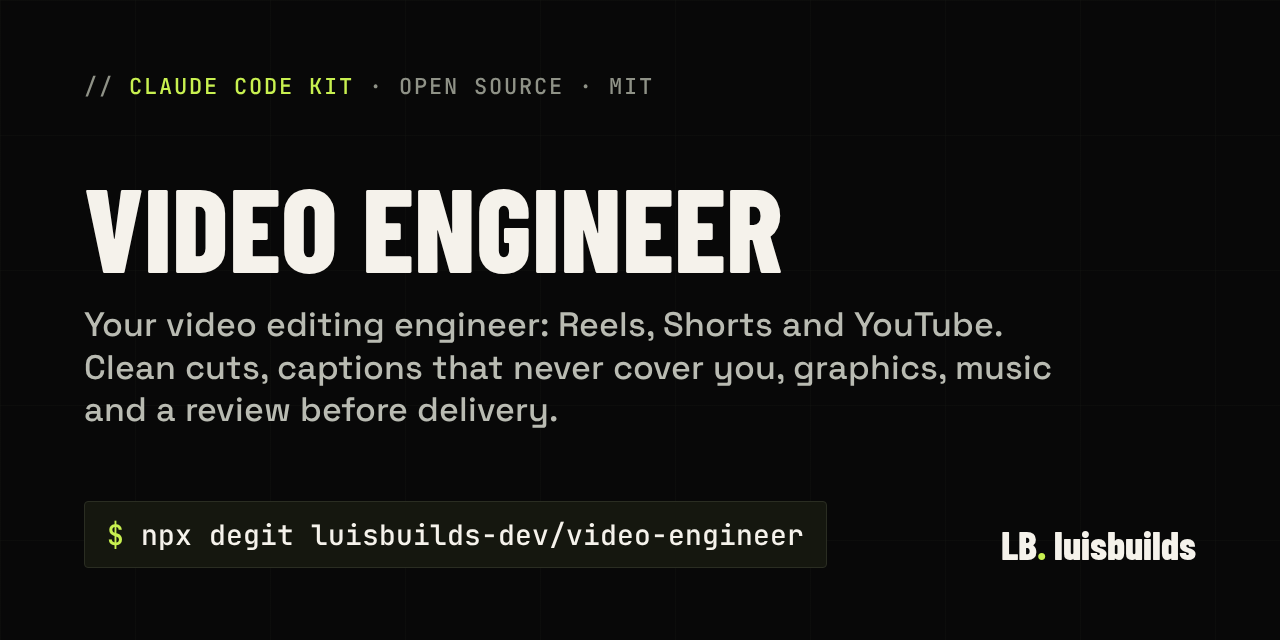
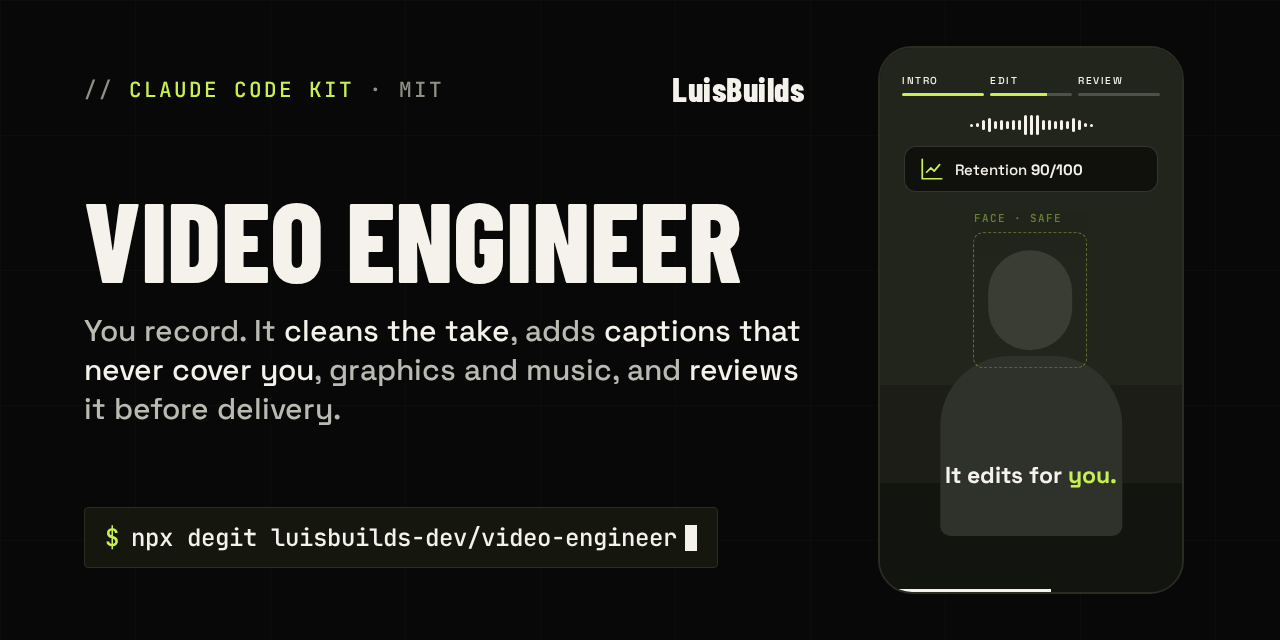
Video Engineer v1.0.2

diff --git a/README.es.md b/README.es.md
@@ -1,4 +1,4 @@
-<p align="center"><img src="assets/banner.png" alt="Video Engineer" width="100%"></p>
+<p align="center"><img src="assets/banner.gif" alt="Video Engineer" width="100%"></p>
 
 <h1 align="center">Video Engineer</h1>
 

diff --git a/README.md b/README.md
@@ -1,4 +1,4 @@
-<p align="center"><img src="assets/banner.png" alt="Video Engineer" width="100%"></p>
+<p align="center"><img src="assets/banner.gif" alt="Video Engineer" width="100%"></p>
 
 <h1 align="center">Video Engineer</h1>
 
